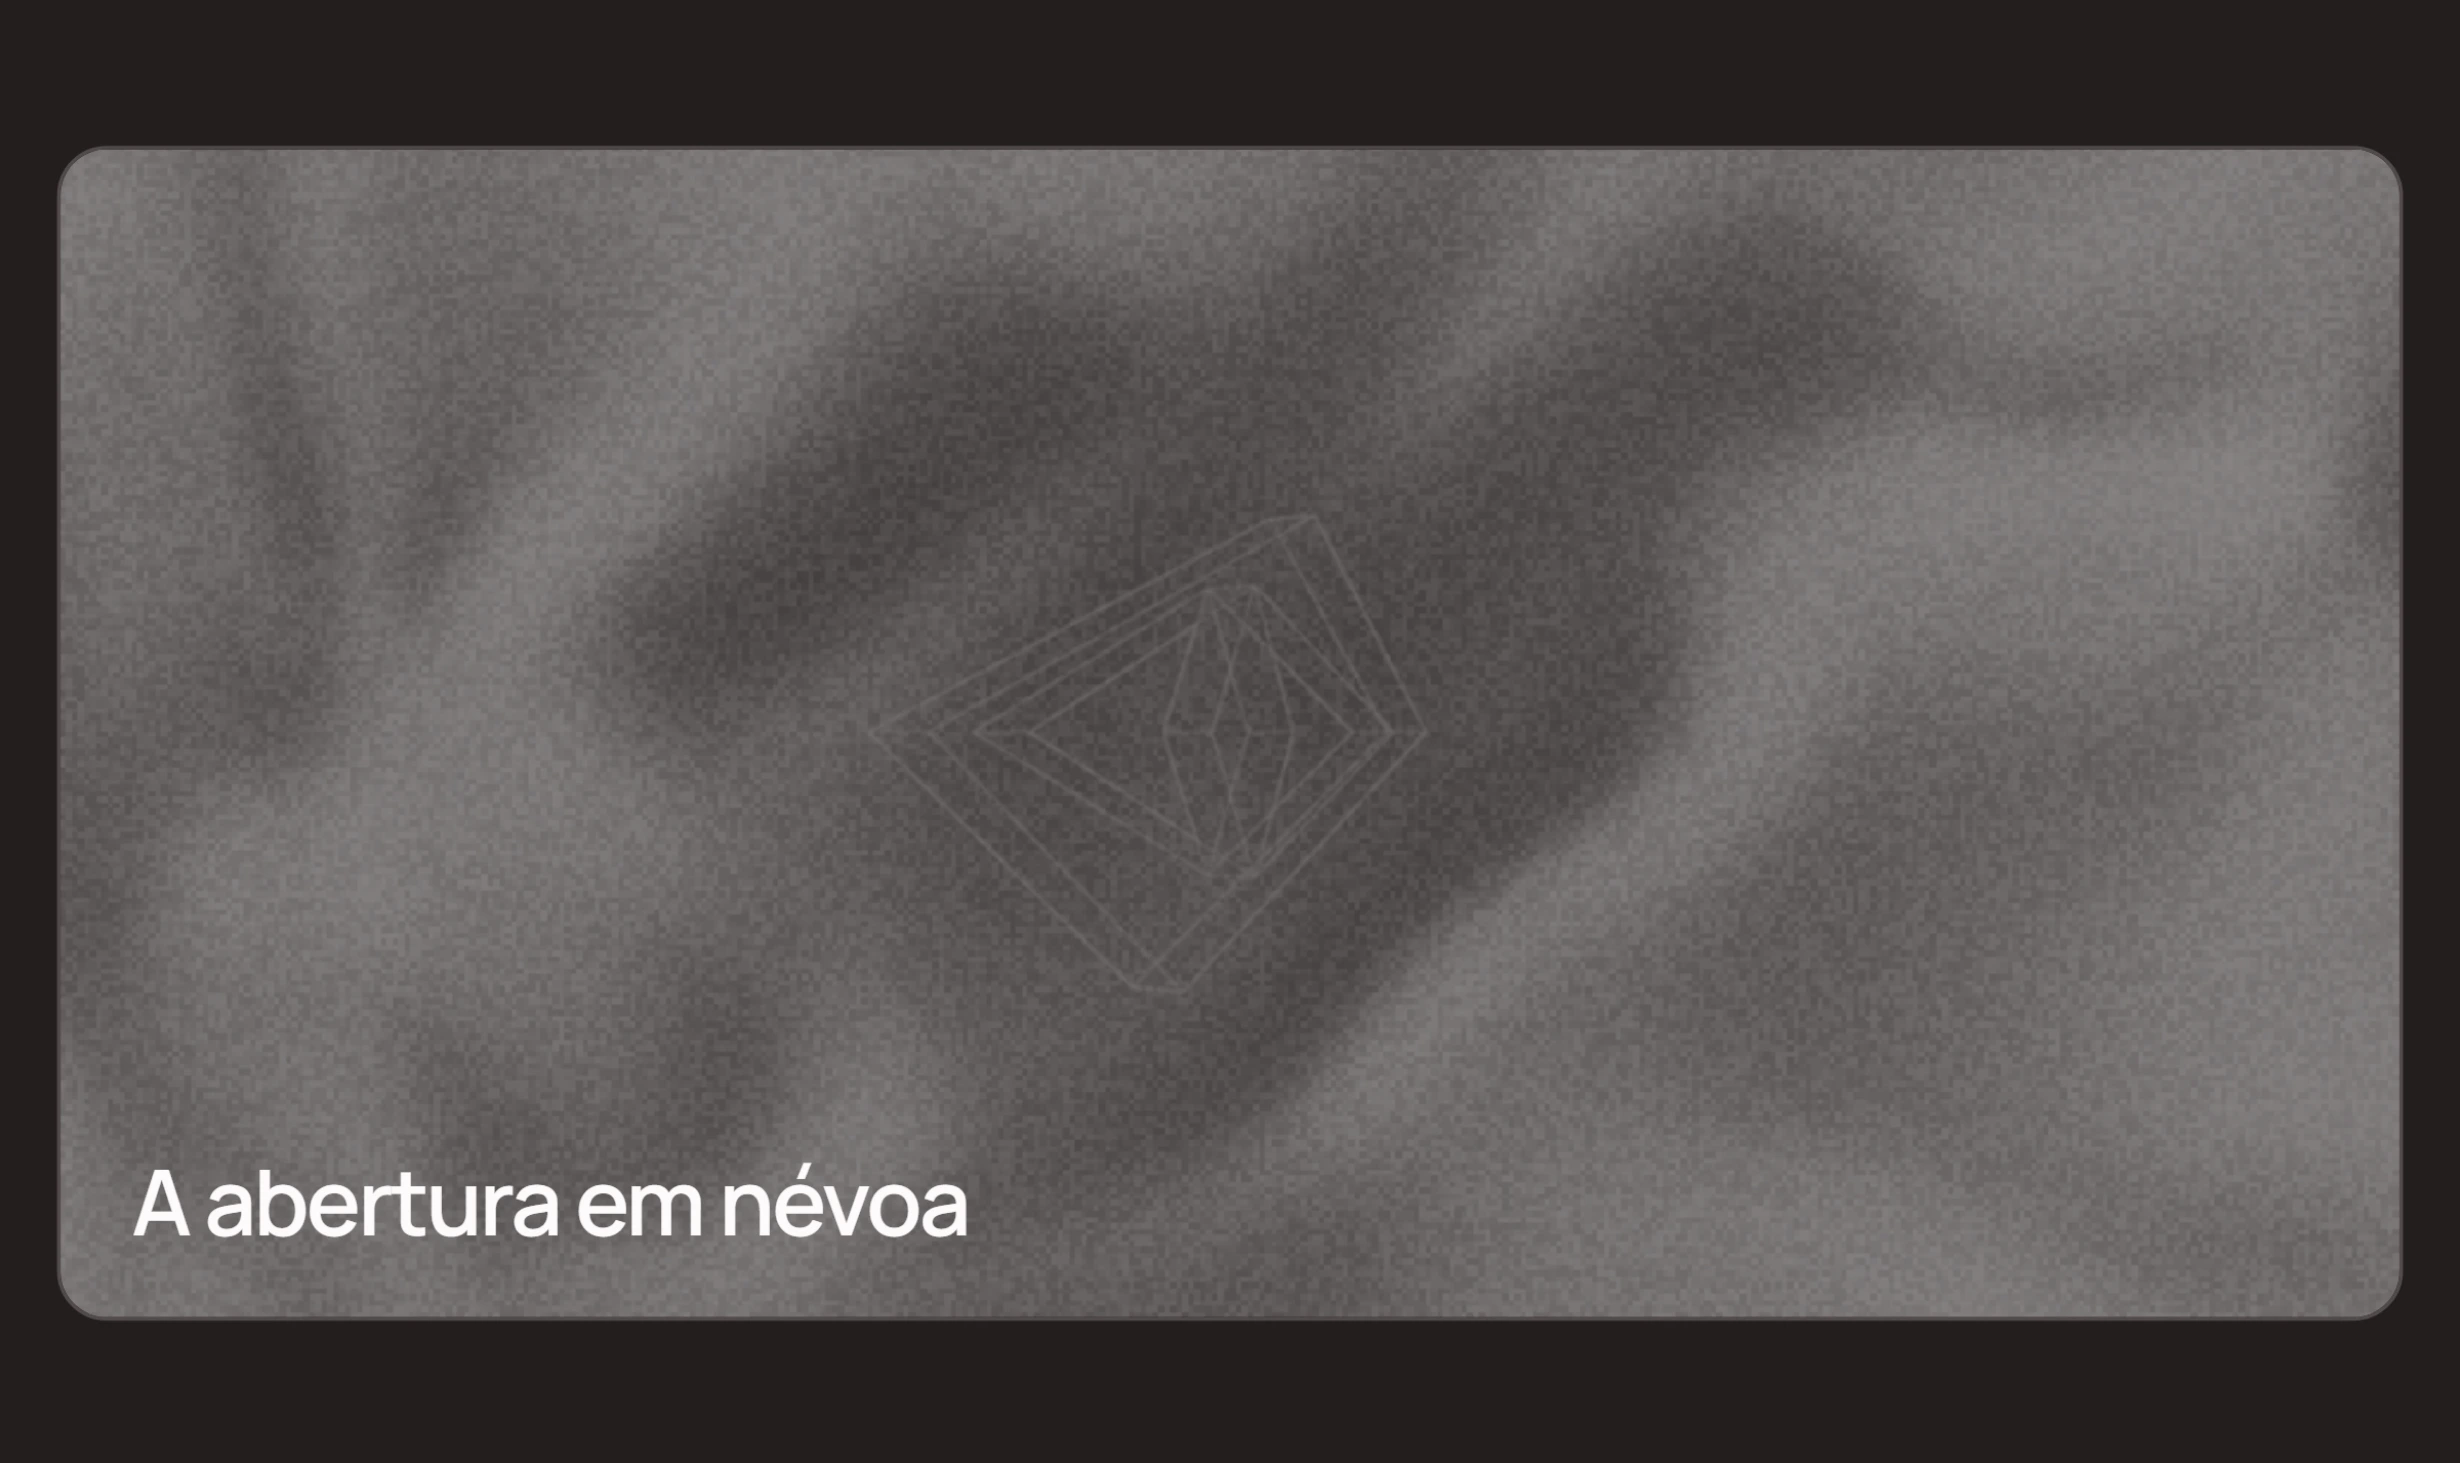
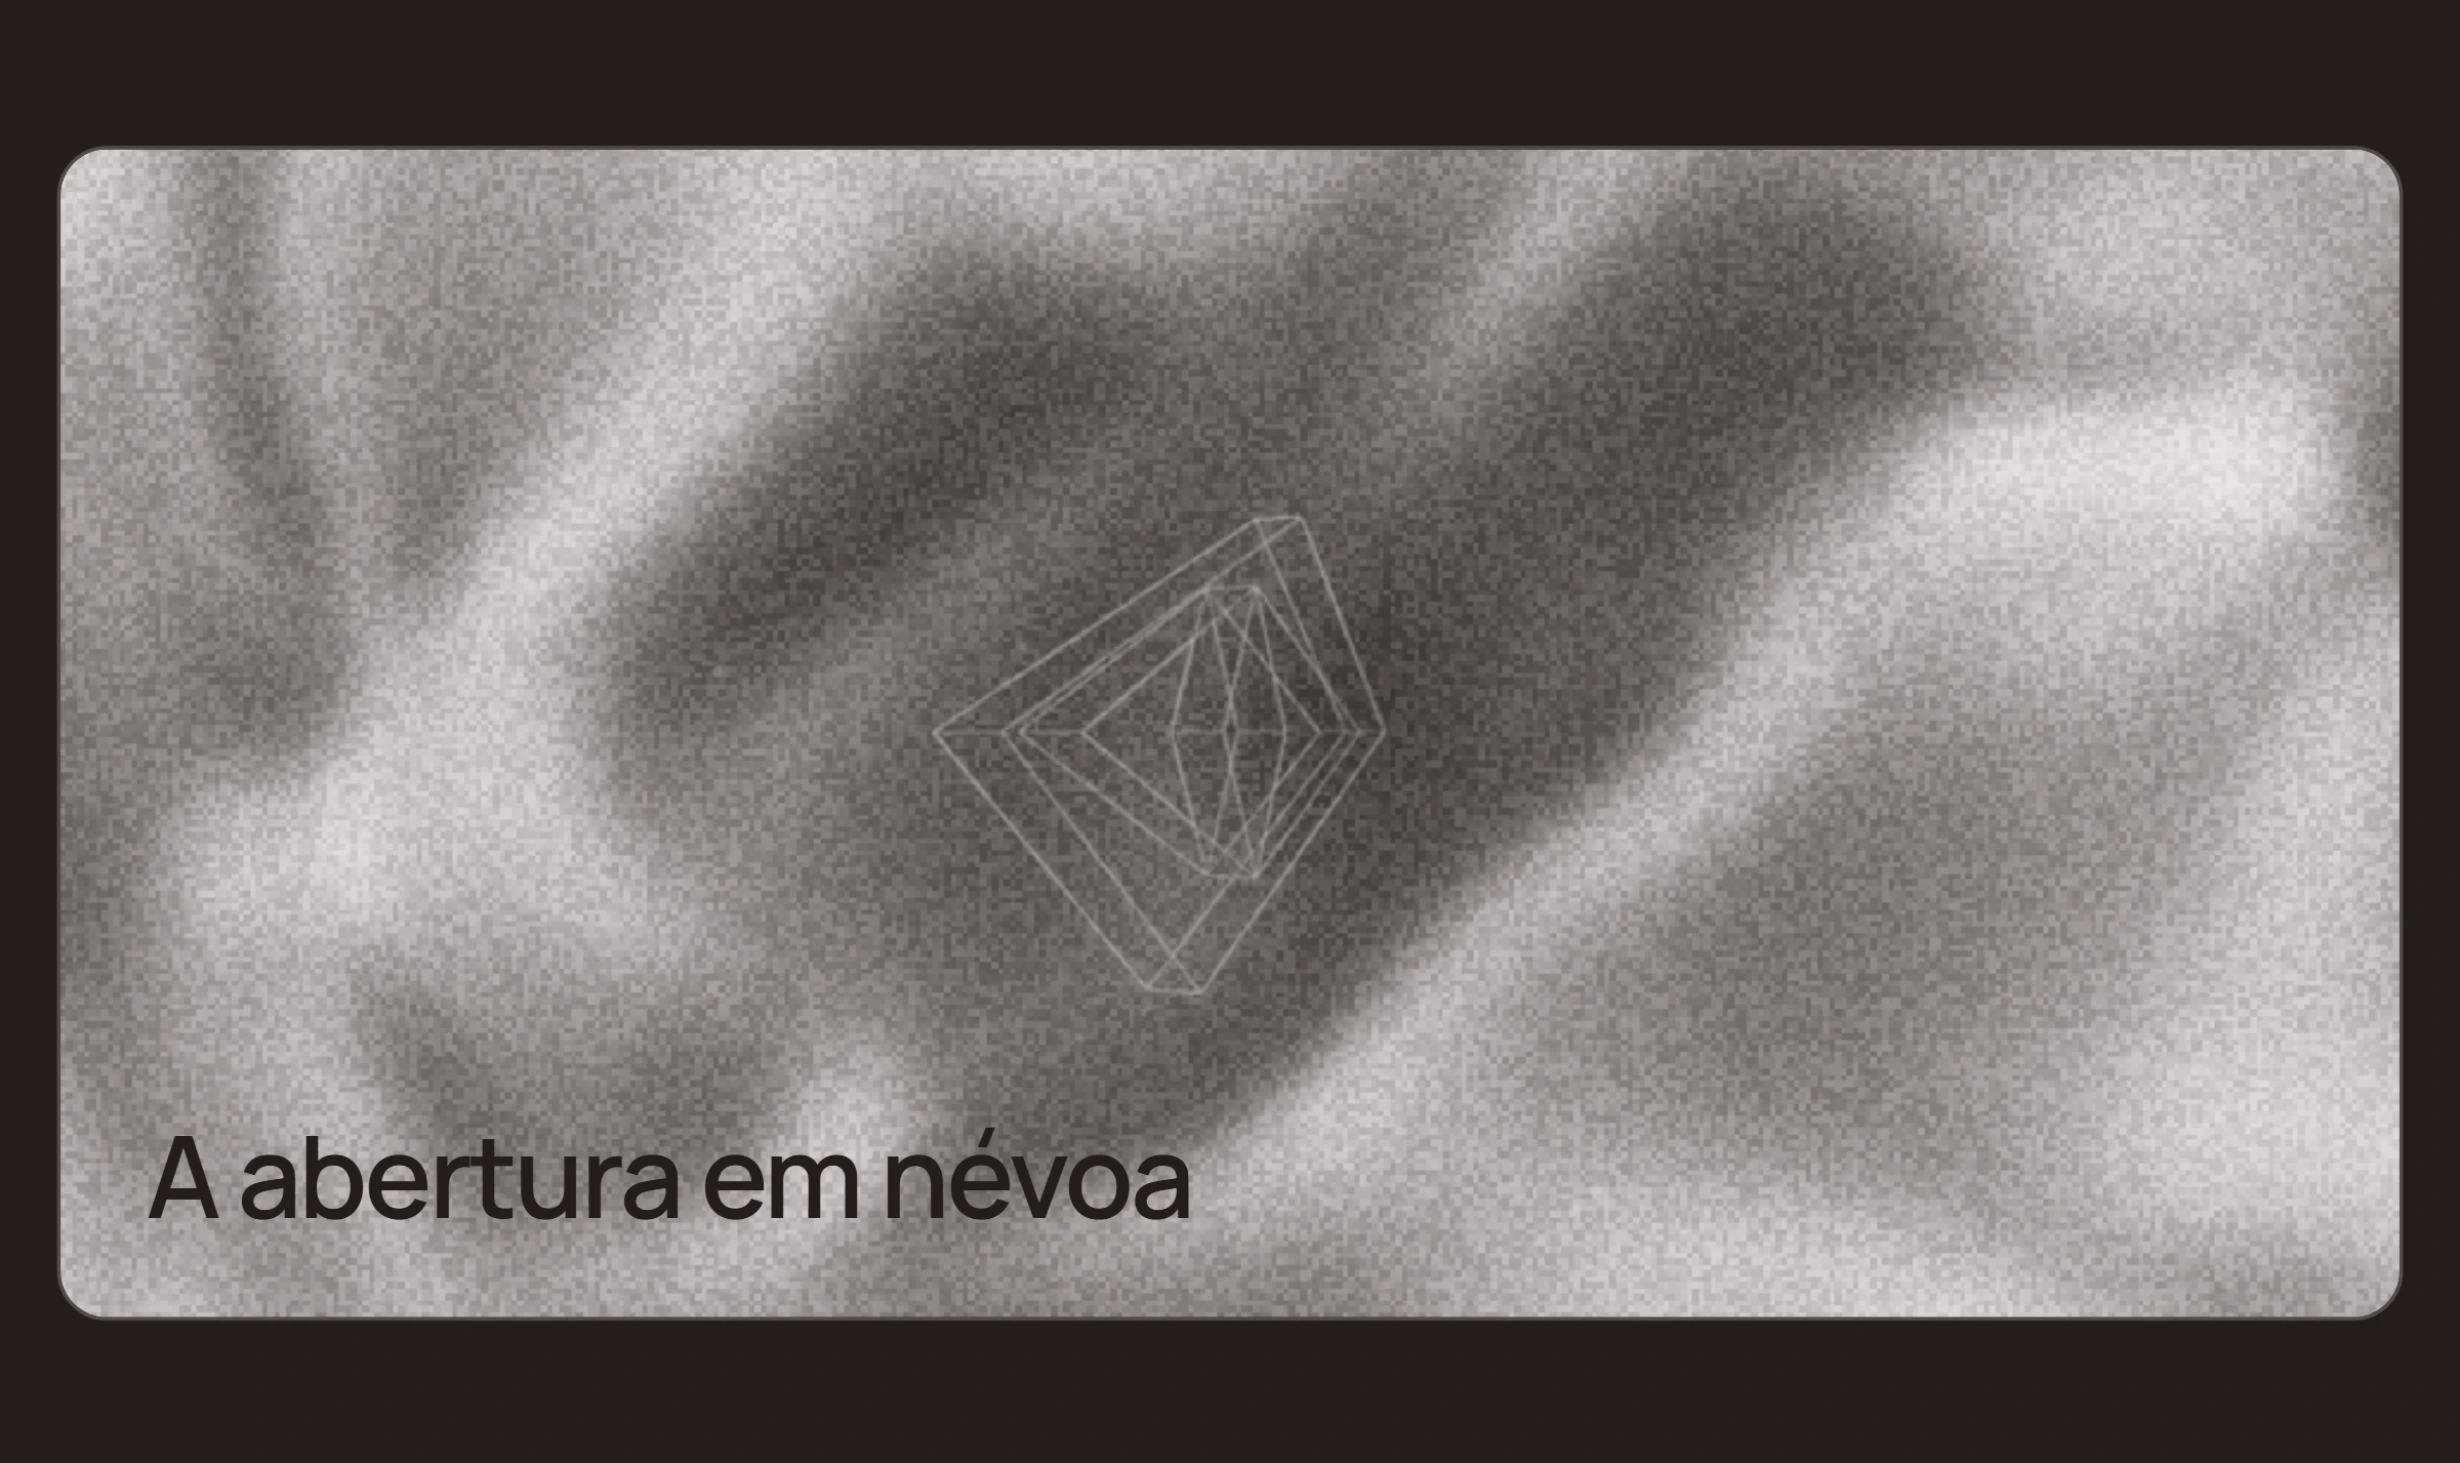
fix(vitrine): fog-hero com tom de vitrine (névoa enquadra, clareira no centro, título em difference)

diff --git a/src/app/demos/fog-hero-demo.tsx b/src/app/demos/fog-hero-demo.tsx
@@ -18,6 +18,14 @@ import { FogHero } from "../../../registry/visant/blocks/fog-hero";
 import { midia } from "../media";
 import type { DemoProps } from "../catalog";
 
+/*
+ * O preset é o da YURA, suave de propósito (marca de aroma). Na vitrine, com as
+ * vinhetas escuras da casa, ele lia como cinza chapado: aqui o tom sobe o
+ * contraste, tira o haze e abre mais a clareira, para a névoa enquadrar as
+ * bordas e a marca ler nítida no centro. `invertVideo` porque a filmagem é escura.
+ */
+const TOM_VITRINE = { invertVideo: true, contrast: 1.1, haze: 0.04, smokeLift: 0.12, photo: 0.95, clear: 0.72 };
+
 export default function FogHeroDemo({ props }: DemoProps) {
   const videos = React.useMemo(() => {
     const webm = document.createElement("video").canPlayType("video/webm") !== "";
@@ -29,9 +37,10 @@ export default function FogHeroDemo({ props }: DemoProps) {
 
   return (
     <div className="h-full w-full overflow-hidden rounded-[var(--r-surface,0.875rem)] border border-border">
-      <FogHero videos={videos} className="h-full" swapEvery={6000} params={{ invertVideo: true }} {...props}>
-        <div className="flex h-full items-end p-5">
-          <p className="text-[1.6rem] font-semibold leading-none tracking-[-0.03em]" style={{ fontFamily: "var(--font-display, inherit)" }}>
+      <FogHero videos={videos} className="h-full" swapEvery={6000} params={TOM_VITRINE} {...props}>
+        <div className="flex h-full items-end p-6 text-[var(--background)] mix-blend-difference">
+          {/* difference: lê sobre a névoa escura do canto e sobre a clareira */}
+          <p className="text-[2rem] font-semibold leading-none tracking-[-0.03em]" style={{ fontFamily: "var(--font-display, inherit)" }}>
             A abertura em névoa
           </p>
         </div>
